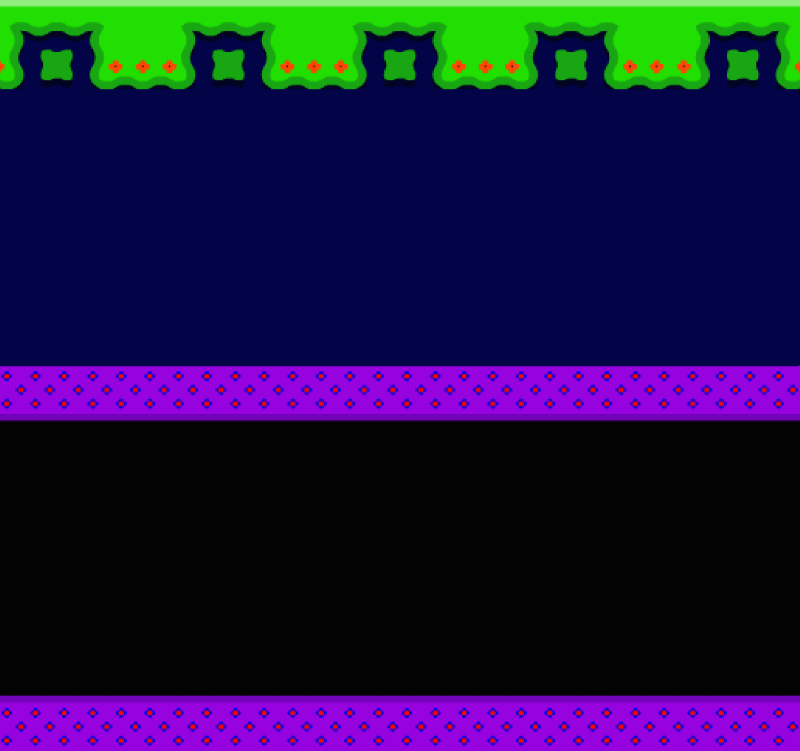
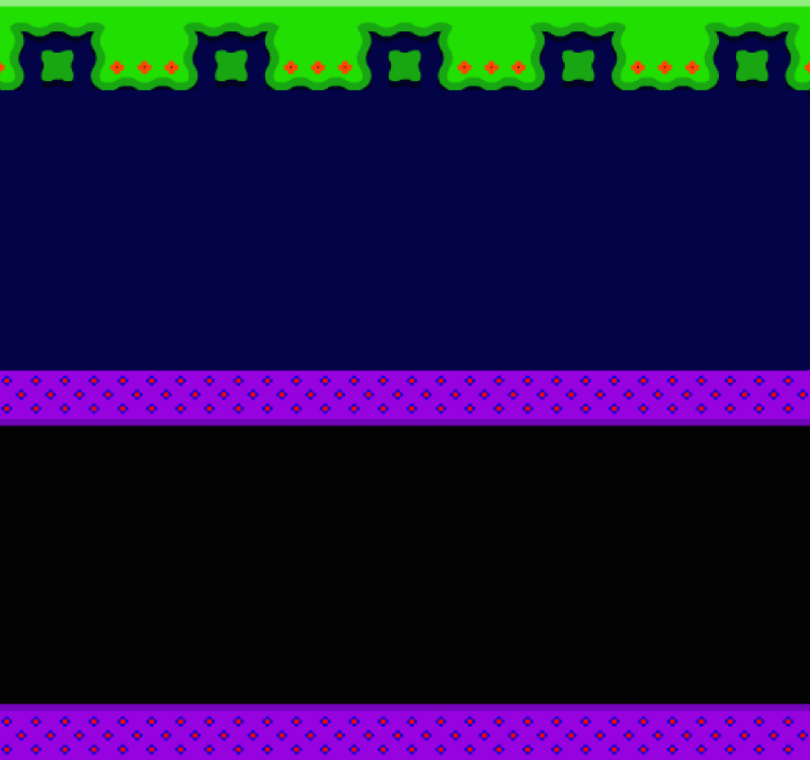
obstacles blitted onto the screen which is a start

diff --git a/src/Frogger.java b/src/Frogger.java
@@ -15,13 +15,14 @@ public class Frogger extends JFrame{
     public Frogger() {
         super("Frogger Dylan & Steven ltd copyright");
         setDefaultCloseOperation(JFrame.EXIT_ON_CLOSE);
-        setSize(810,785);
+        setSize(810,795);
 
         myTimer = new Timer(10, new TickListener());
         myTimer.start();
 
         game = new GamePanel();
         add(game);
+
 
         setResizable(false);
         setVisible(true);
@@ -36,18 +37,22 @@ public class Frogger extends JFrame{
     }
 
     public static void main(String[] arguments) {
+
         Frogger frame = new Frogger();
+
     }
 }
 
 class GamePanel extends JPanel implements KeyListener {
+    Frog player = new Frog();
     private int frogx,frogy;
     public boolean ready=false;
     private boolean gotName=false;
     private boolean []keys;
-    private boolean [] keysPressed;
-    private Image back,frogPic,car1,car2,car3,log1,log2,log3;
-
+    private boolean [] keysPressed ;
+    private static Image back,frogPic,car1,car2,car3,log1,log2,log3;
+    private static Lanes lanes[] = new Lanes [12];
+    private static Image obstaclePics [] = {back,frogPic,car1,car2,car3,log1,log2,log3};
 
     public GamePanel(){
         try {
@@ -61,12 +66,16 @@ class GamePanel extends JPanel implements KeyListener {
             log3 = ImageIO.read(new File("Pictures/log3.png"));
         }
         catch (IOException e) {
+            System.out.println(e);
         }
         keys = new boolean[KeyEvent.KEY_LAST+1];
-        setSize(800,751);
         frogx = 200;
         frogy = 200;
         addKeyListener(this);
+        loadLanes();
+        while (true) {
+            movement();
+        }
     }
 
 
@@ -76,16 +85,53 @@ class GamePanel extends JPanel implements KeyListener {
         requestFocus();
         ready = true;
     }
+    public int randint(int low, int high){
+        return (int)(Math.random()*(high-low+1)+low);
+    }
+    public static void loadLanes(){
+        for (int i = 0; i<12 ; i ++){
+            Lanes makeLanes;
+            if (i%2 == 1) {
+                makeLanes = new Lanes(90 + 55 * i, 3, "RIGHT");
+            }
+            else{
+                makeLanes = new Lanes(90 + 55 * i, 3 ,"LEFT");
+            }
+            lanes[i] = makeLanes;
+        }
+    }
 
+    public static void movement(){
+        for (Lanes l : lanes){
+            int counter = 0;
+            l.moveLanes();
+            counter++;
+            System.out.println(counter);
+
+        }
+    }
 
     @Override
     public void paintComponent(Graphics g){
+        g.setColor(new Color(255,222,222));
         g.drawImage(back,0,0,this);
-        g.drawImage(frogPic,frogx,frogy,this);
-        g.drawImage(car1,100,650,this);
-        g.drawImage(car2,200,590,this);
-        g.drawImage(car3,300,530,this);
-        g.drawImage(log1,400,280,this);
+        g.drawImage(frogPic,player.getPosX(),player.getPosY(),this);
+        //for (Lanes l : lanes){
+        for (int i = 0; i<12;i++){
+            g.setColor(new Color(255,222,222));
+            // g.drawRect(0,lanes[i].getYPos(),800,751); draw the lanes
+            for (Area a : lanes[i].getAreas()){ //start at 6
+                //System.out.println(a);
+                if (i>=6 && i < 11) { /// lanes on the road
+                    g.drawImage(car1, a.getAx(), a.getAy() + 5, this);
+                }
+                if (i>=0 && i<5){
+                    int randCar = randint(1,3);
+                    g.drawImage(log1, a.getAx(),a.getAy(),this);
+                }
+            }
+
+        }
 
     }
 
@@ -98,19 +144,23 @@ class GamePanel extends JPanel implements KeyListener {
         System.out.println("skfkabdk");
         if(k.getKeyCode()==KeyEvent.VK_RIGHT && !keysPressed[KeyEvent.VK_RIGHT]){
             System.out.println("Right");
+            player.movePos(40,0);
             frogx+=40;
         }
 
         if(k.getKeyCode()==KeyEvent.VK_LEFT && !keysPressed[KeyEvent.VK_LEFT]){
             System.out.println("Left");
+            player.movePos(-40,0);
             frogx-=40;
         }
         if(k.getKeyCode()==KeyEvent.VK_UP && !keysPressed[KeyEvent.VK_UP]){
             System.out.println("Up");
+            player.movePos(0,40);
             frogy-=40;
         }
         if(k.getKeyCode()==KeyEvent.VK_DOWN && !keysPressed[KeyEvent.VK_DOWN]){
             System.out.println("Down");
+            player.movePos(0,40);
             frogy+=40;
         }
         keysPressed[k.getKeyCode()]=true;

diff --git a/src/Lanes.java b/src/Lanes.java
@@ -1,11 +1,38 @@
+import java.util.*;
 class Lanes {
-    private int height = 60;
-    private int speed = 2;
+    private int yPos ;
+    private int speed;
     private String direction;
-    public Lanes(int h, int s){
-        height = h;
+    private Area[] areas = new Area[randint(1,3)];
+    public Lanes(int h, int s, String d){
+        yPos = h;
         speed = s;
-        direction = "RIGHT";
+        direction = d;
+        int counter = 0;
+        for (Area a : areas){
+            counter ++;
+            Area newAreas = new Area(randint(10,780),yPos,50,50);
+            areas[counter-1] = newAreas;
+        }
+    }
 
+    public int randint(int low, int high){
+        return (int)(Math.random()*(high-low+1)+low);
+    }
+    public int getYPos(){
+        return yPos;
+    }
+    public Area[] getAreas(){
+        return areas;
+    }
+    public void moveLanes(){
+        for (Area a : areas){
+            if (direction == "LEFT"){
+                a.addAx(-speed);
+            }
+            else{
+                a.addAx(speed);
+            }
+        }
     }
 }

diff --git a/src/Area.java b/src/Area.java
@@ -1,14 +1,34 @@
 import java.util.*;
+import java.awt.image.*;
 class Area {
     private int width;
     private int height;
     private int ax;
     private int ay;
-    public Area(int w, int h, int x, int y){
-        width = x;
+    public Area(int x, int y, int h, int w ){
+        width = w;
         height = h;
         ax = x;
         ay = y;
 
+    }
+    public int getAx(){
+        return ax;
+    }
+    public int getAy(){
+        return ay;
+    }
+    public int width(){
+        return width;
+    }
+    public int height(){
+        return height();
+    }
+    public String toString(){
+        return String.format("%d,%d,%d,%d",ax,ay,width,height);
+    }
+    public void addAx(int interval) {
+        ax += interval;
+        System.out.println("AX is: " + ax);
     }
 }

diff --git a/src/Frog.java b/src/Frog.java
@@ -8,8 +8,18 @@ import javax.imageio.*;
 class Frog {
     private int posX,posY;
     public Frog(){
-        posX = 100;
-        posY = 100;
+        posX = 400;
+        posY = 770;
     }
-    public void move(){}
+
+    public int getPosX(){
+        return posX;
+    }
+    public int getPosY(){
+        return posY;
+    }
+    public void movePos(int intervalX, int intervalY){
+        posX += intervalX;
+        posY += intervalY;
+    }
 }
